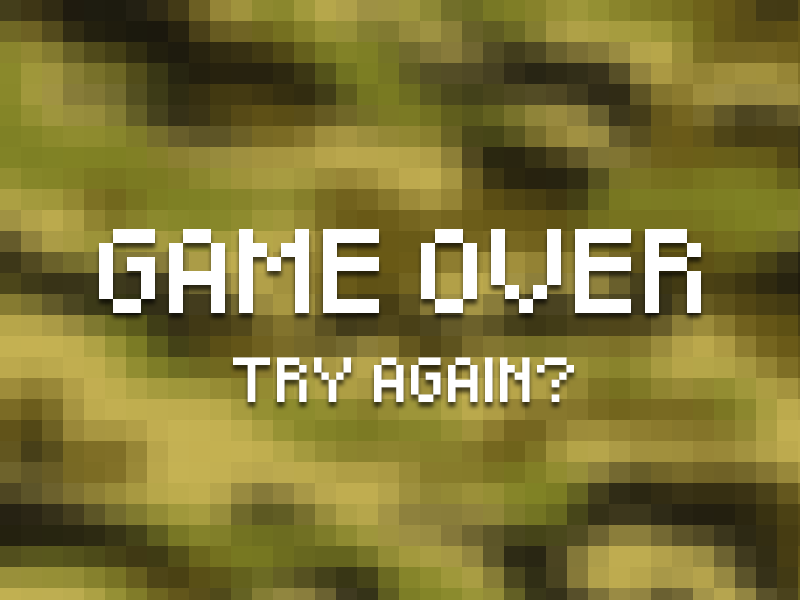
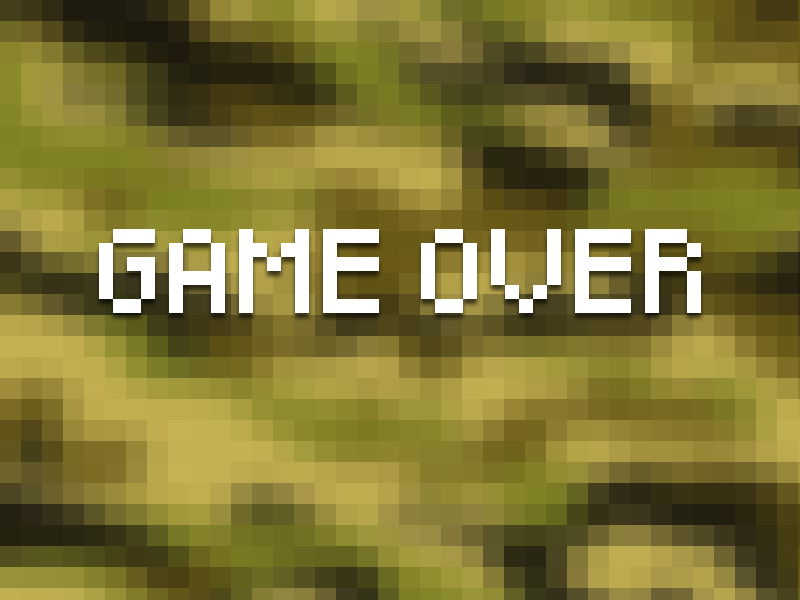
+startscreen, will be done soon

Changed region(s): [[0.2812, 0.57, 0.7188, 0.69]]

diff --git a/mega-tank-2017/css/main.css b/mega-tank-2017/css/main.css
@@ -1,0 +1,38 @@
+@font-face {
+    font-family: Pixeled;
+    src: url(fonts/pixeled.ttf);
+}
+
+html, body {
+    padding: 0;
+    margin: 0;
+}
+
+#start-game {
+    width: 800px;
+    height: 600px;
+    position: absolute;
+    top: 0;
+    left: 0;    
+    background-image: url("../img/startscreen.png");
+    font-family: Pixeled;
+    color: #fff;
+}
+
+#start-btn {
+    position: absolute;
+    top: 325px;
+    left: 300px;
+    font-family: Pixeled;
+    border: 0;
+    background: 0;
+    font-size: 30px;
+    color: #fff;
+    text-shadow: 2px 2px rgba(0, 0, 0, 0.5);
+    outline: none;
+}
+
+#start-btn:hover {
+    color: lawngreen;
+}
+

diff --git a/mega-tank-2017/tanks.html b/mega-tank-2017/tanks.html
@@ -4,6 +4,7 @@
 <head>
     <meta content="text/html;charset=utf-8" http-equiv="Content-Type">
     <meta content="utf-8" http-equiv="encoding">
+    <link rel="stylesheet" href="./css/main.css">
 </head>
 
 <body>
@@ -15,7 +16,11 @@
     <script src="scripts/invisible-wall.js"></script>
     <script src="scripts/game-engine.js"></script>
     <script src="scripts/main.js"></script>
-    <button onclick="startNewGame();">New game</button>
+
+    <div id="start-game">
+    <button id="start-btn" onclick="startNewGame();">START</button>
+    </div>
+
 </body>
 
 </html>

diff --git a/mega-tank-2017/scripts/main.js b/mega-tank-2017/scripts/main.js
@@ -12,6 +12,9 @@ window.onload = function() {
 
 function startNewGame() {
     clearInterval(gameInteval);
+    // Remove start screen
+    var startScreen = document.getElementById('start-game');
+    startScreen.style.display = 'none';
 
     gameEngine.setupNewGame();
 
